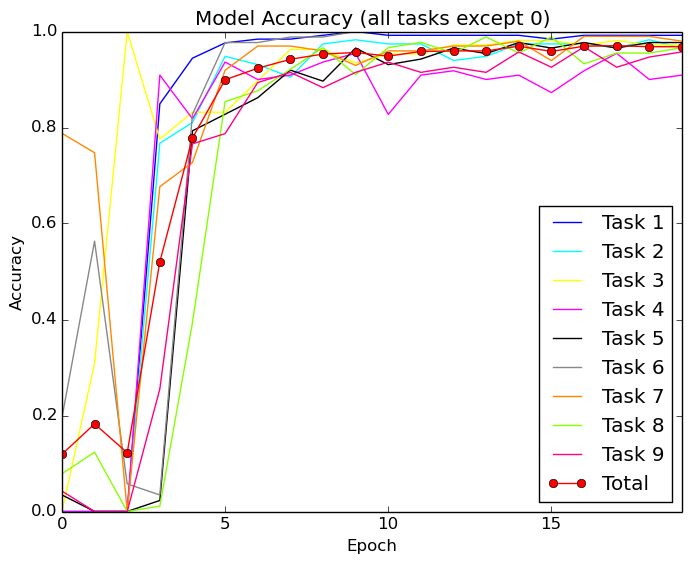
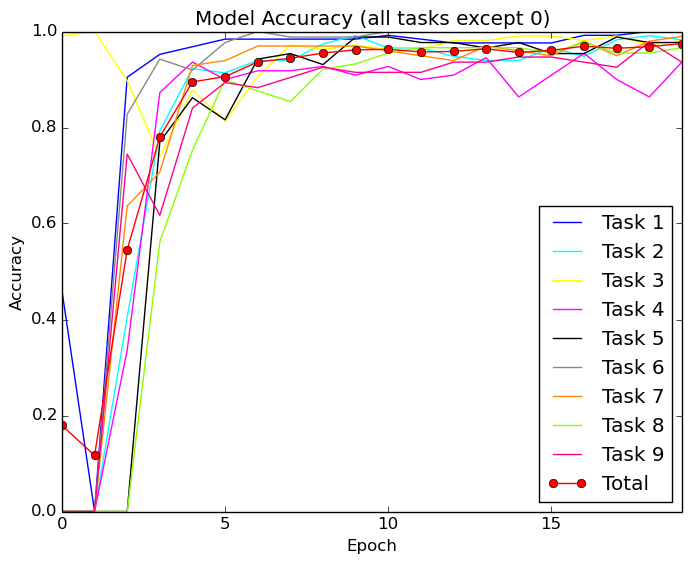
bugfix

Changed region(s): [[0.0912, 0.0603, 1.0, 0.9344], [0.547, 0.1809, 0.5774, 0.211], [0.0912, 0.2411, 0.1216, 0.2713]]

diff --git a/conv_net/catastrophic/catastrophic-interference.py b/conv_net/catastrophic/catastrophic-interference.py
@@ -88,7 +88,7 @@ def find_lr_task_accuracies(lr, num_tasks, data, classes):
 		task_data = []
 		task_labels = []
 		for i in range(data):
-			if classes[i] = t:
+			if classes[i] == t:
 				task_data.append(data[i])
 				task_labels.append(classes[i])
 		acc[t] = np.mean(lr.predict(task_data) == task_labels)
@@ -110,7 +110,7 @@ def generate_accuracy_graphs(num_tasks, exclude, save_figs, do_logreg_comparison
 
 	cnn.create_model_functions()
 
-	v = True
+	v = False
 	e = 20
 	b = 100
 	colors = ["#00FF00", "#0000FF", "#00FFFF", "#FFFF00", "#FF00FF", "#000000", "#888888", "#FF8800", "#88FF00", "#FF0088"]
